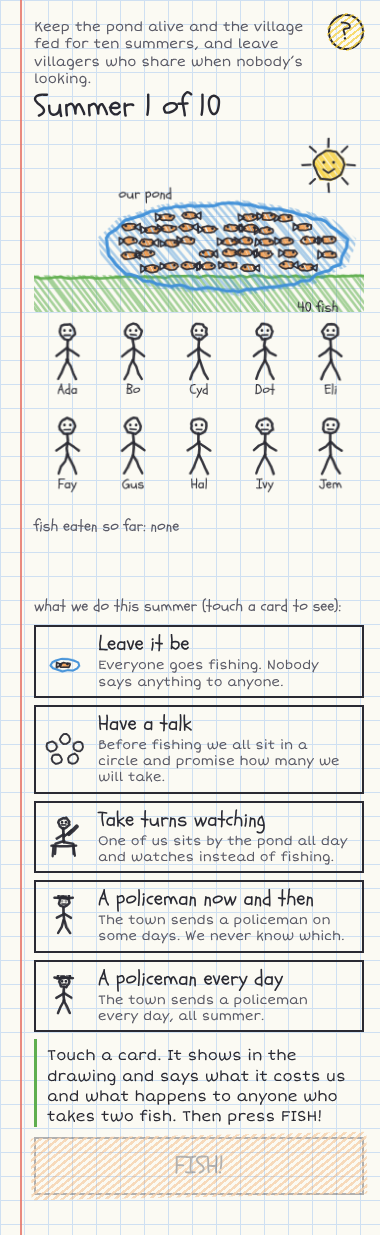
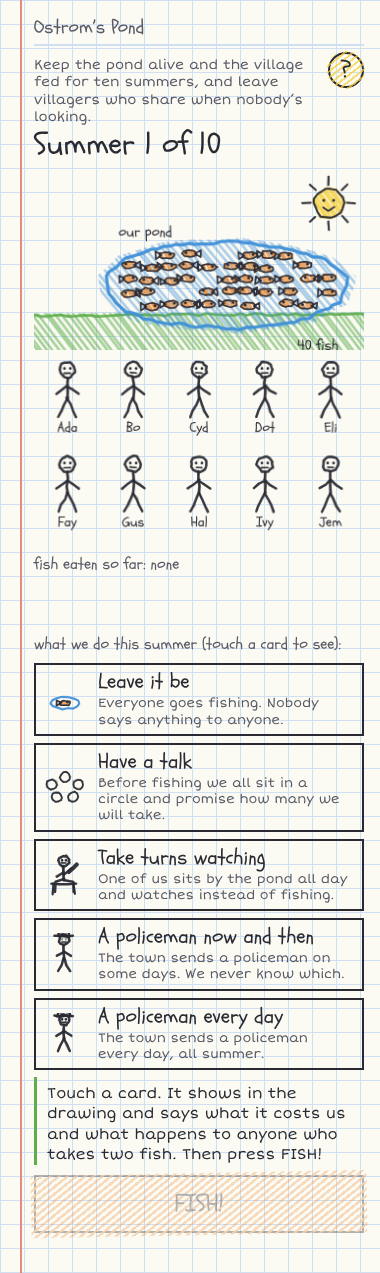
Ostrom's Pond, revision 1: drop the landing line, add a running title
The start screen no longer says "a game from a paper"; the play screen and the verdict screen carry "Ostrom's Pond" in Schoolbell above everything else. Mechanism unchanged.

Claude-Session: https://claude.ai/code/session_018niUhyemhWFgrcvTvM8CEB

diff --git a/ostrom/ostroms-pond.html b/ostrom/ostroms-pond.html
@@ -28,6 +28,7 @@ p{margin:0 0 10px}
 b{font-weight:400;text-decoration:underline;text-decoration-thickness:2px;text-underline-offset:2px}
 .small{font-size:14px;line-height:1.38;color:var(--mute)}
 .caps{font-family:Schoolbell,cursive;font-size:17px;color:var(--mute)}
+.run{font-family:Schoolbell,cursive;font-size:19px;color:var(--mute);margin:0 0 6px;padding-bottom:3px;border-bottom:2px solid var(--grid)}
 .aim{font-size:18px;line-height:1.32;padding:8px 0 8px 10px;margin:12px 0;border-left:4px solid var(--orange)}
 .topbar{display:flex;align-items:flex-start;gap:8px;margin-bottom:4px}
 .topbar .aimline{flex:1;font-size:13.5px;line-height:1.28;padding-top:4px;color:var(--mute)}
@@ -79,7 +80,6 @@ footer.sig a{font-family:'Short Stack',cursive;font-style:italic;font-size:14px;
 
 <!-- ===================== START ===================== -->
 <section class="screen on" id="s-start">
-  <div class="caps">a game from a paper</div>
   <h1>Ostrom&rsquo;s Pond</h1>
   <div class="pic"><canvas id="c-start" width="336" height="200"></canvas></div>
   <p>This is our village. There are ten of us and one pond. Every summer we all go fishing, and over the winter the fish have babies. A full pond makes about ten new fish a summer: one each. Some of us take two.</p>
@@ -92,6 +92,7 @@ footer.sig a{font-family:'Short Stack',cursive;font-style:italic;font-size:14px;
 
 <!-- ===================== PLAY ===================== -->
 <section class="screen" id="s-play">
+  <div class="run">Ostrom&rsquo;s Pond</div>
   <div class="topbar"><div class="aimline">Keep the pond alive and the village fed for ten summers, and leave villagers who share when nobody&rsquo;s looking.</div><button class="q" id="q-play" aria-label="How to play">?</button></div>
   <h2 id="h-summer">Summer 1 of 10</h2>
   <div class="pic"><canvas id="c-pic" width="336" height="186"></canvas></div>
@@ -123,6 +124,7 @@ footer.sig a{font-family:'Short Stack',cursive;font-style:italic;font-size:14px;
 
 <!-- ===================== END ===================== -->
 <section class="screen" id="s-end">
+  <div class="run">Ostrom&rsquo;s Pond</div>
   <div class="caps">the verdict</div>
   <div class="big" id="end-head"></div>
   <div class="verd" id="end-lines"></div>

diff --git a/ostrom/template.html b/ostrom/template.html
@@ -28,6 +28,7 @@ p{margin:0 0 10px}
 b{font-weight:400;text-decoration:underline;text-decoration-thickness:2px;text-underline-offset:2px}
 .small{font-size:14px;line-height:1.38;color:var(--mute)}
 .caps{font-family:Schoolbell,cursive;font-size:17px;color:var(--mute)}
+.run{font-family:Schoolbell,cursive;font-size:19px;color:var(--mute);margin:0 0 6px;padding-bottom:3px;border-bottom:2px solid var(--grid)}
 .aim{font-size:18px;line-height:1.32;padding:8px 0 8px 10px;margin:12px 0;border-left:4px solid var(--orange)}
 .topbar{display:flex;align-items:flex-start;gap:8px;margin-bottom:4px}
 .topbar .aimline{flex:1;font-size:13.5px;line-height:1.28;padding-top:4px;color:var(--mute)}
@@ -79,7 +80,6 @@ footer.sig a{font-family:'Short Stack',cursive;font-style:italic;font-size:14px;
 
 <!-- ===================== START ===================== -->
 <section class="screen on" id="s-start">
-  <div class="caps">a game from a paper</div>
   <h1>Ostrom&rsquo;s Pond</h1>
   <div class="pic"><canvas id="c-start" width="336" height="200"></canvas></div>
   <p>This is our village. There are ten of us and one pond. Every summer we all go fishing, and over the winter the fish have babies. A full pond makes about ten new fish a summer: one each. Some of us take two.</p>
@@ -92,6 +92,7 @@ footer.sig a{font-family:'Short Stack',cursive;font-style:italic;font-size:14px;
 
 <!-- ===================== PLAY ===================== -->
 <section class="screen" id="s-play">
+  <div class="run">Ostrom&rsquo;s Pond</div>
   <div class="topbar"><div class="aimline">Keep the pond alive and the village fed for ten summers, and leave villagers who share when nobody&rsquo;s looking.</div><button class="q" id="q-play" aria-label="How to play">?</button></div>
   <h2 id="h-summer">Summer 1 of 10</h2>
   <div class="pic"><canvas id="c-pic" width="336" height="186"></canvas></div>
@@ -123,6 +124,7 @@ footer.sig a{font-family:'Short Stack',cursive;font-style:italic;font-size:14px;
 
 <!-- ===================== END ===================== -->
 <section class="screen" id="s-end">
+  <div class="run">Ostrom&rsquo;s Pond</div>
   <div class="caps">the verdict</div>
   <div class="big" id="end-head"></div>
   <div class="verd" id="end-lines"></div>

diff --git a/ostrom/memo.md b/ostrom/memo.md
@@ -187,3 +187,7 @@ Ostrom's Pond — calibration check, 2026-11-09. 43 checks, 0 failed. All checks
 - Fixed from the screenshots: the card doodles inherited the big canvases' full-width styling and blew up; the town's policeman stood on the sun and his caption on the fish count; the verdict's small line repeated its headline; the newcomer's suitcase was keyed to the wrong summer counter.
 - Self-review from the screenshots, help closed: the aim is on the start screen on its own line, and the three physical acts before it; the start drawing says what a pond, a villager and a grabber look like; on the play screen a stranger can see what the cards do before committing (the arrangement is drawn in, the green-lined box says the cost and the consequence), the row after FISH! says who took what and what happened to them under their own name, and the game's three sentences state the summer before any character speaks; the verdict leads with the eleventh summer in words. It looks like no game in the table: the last Drawn games were a Bruna page and crayon on sugar paper; this is felt-tip on squared paper with two child print hands.
 - Not done: stranger testing; a measured session length (the walkthrough's estimate is five to six minutes).
+
+## 21. Revision 1 (9 Nov 2026): the landing line and a running title
+
+On Steffen's note after playing: the start screen's "a game from a paper" line is dropped as obvious, and the play screen and the verdict screen carry a running title, *Ostrom's Pond*, in Schoolbell above everything else, so a player who arrives mid-game knows where they are. Nothing in the mechanism changed.
